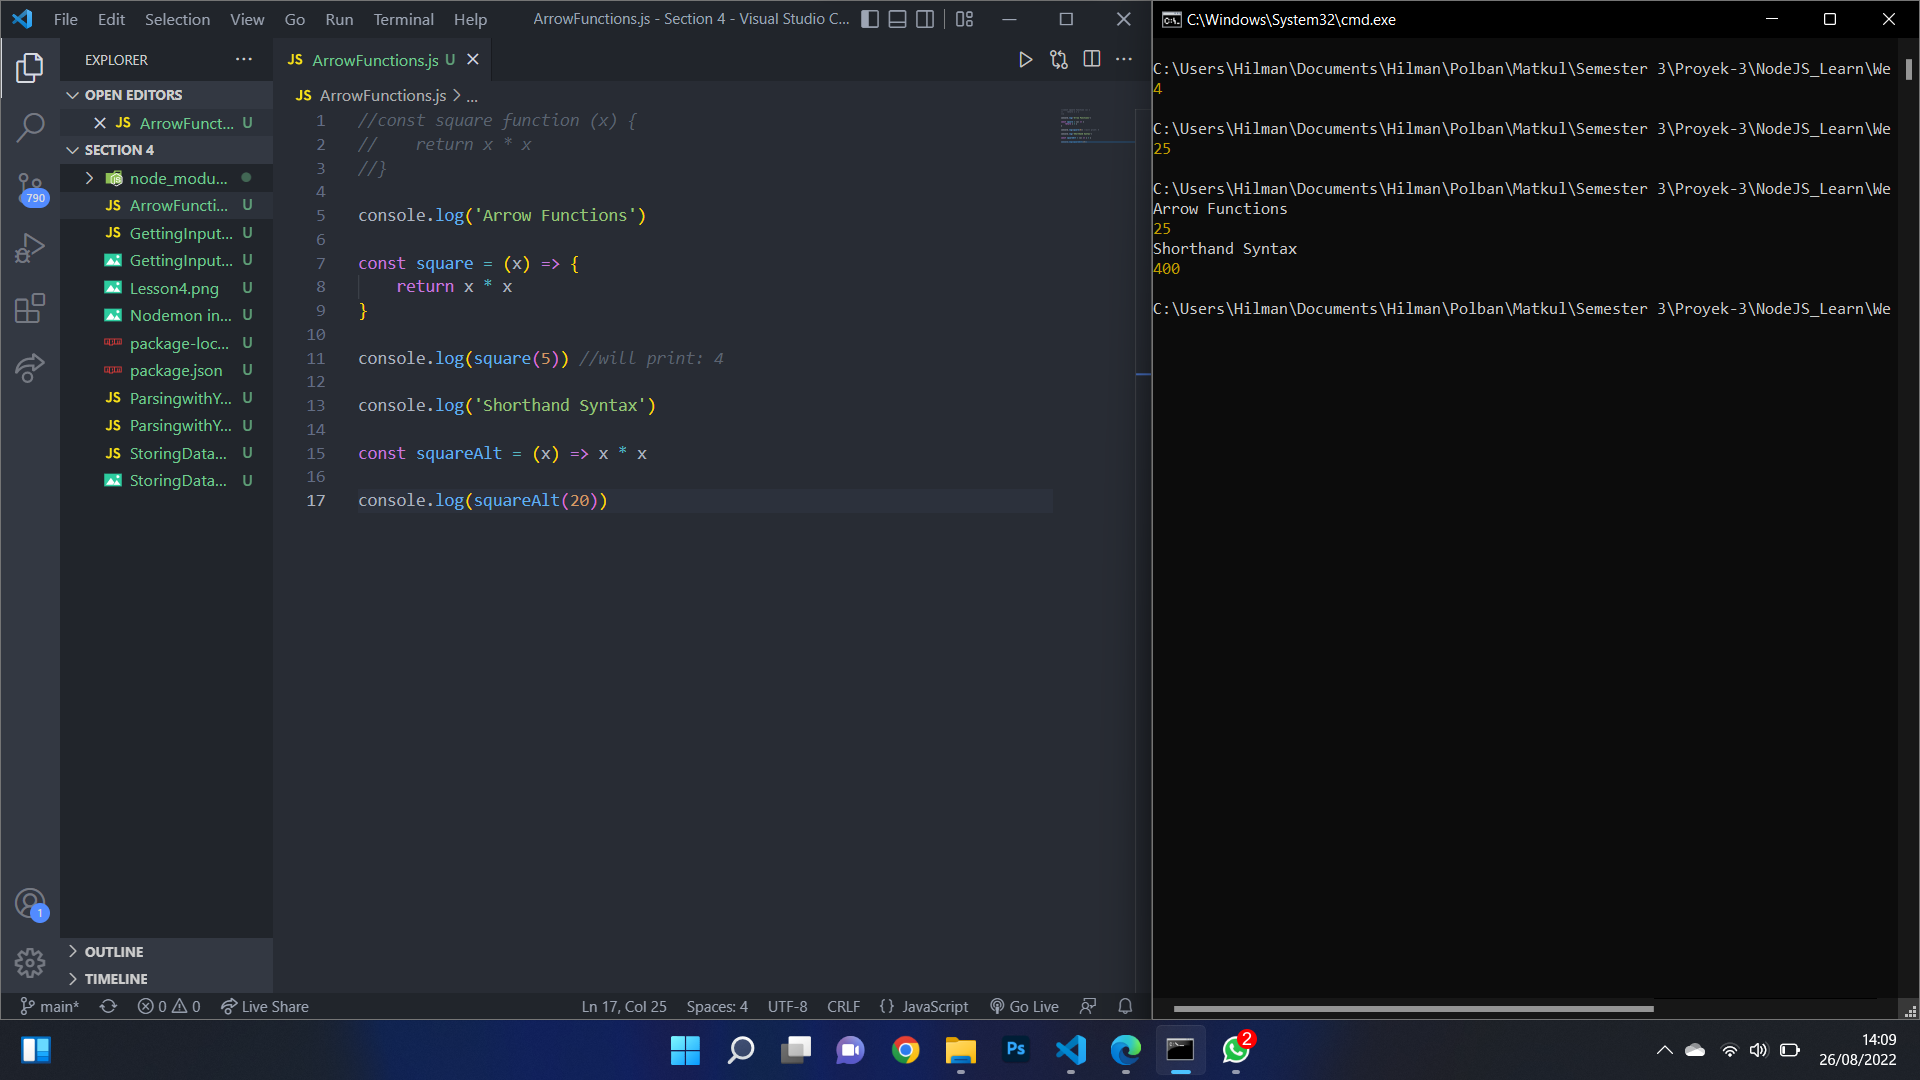
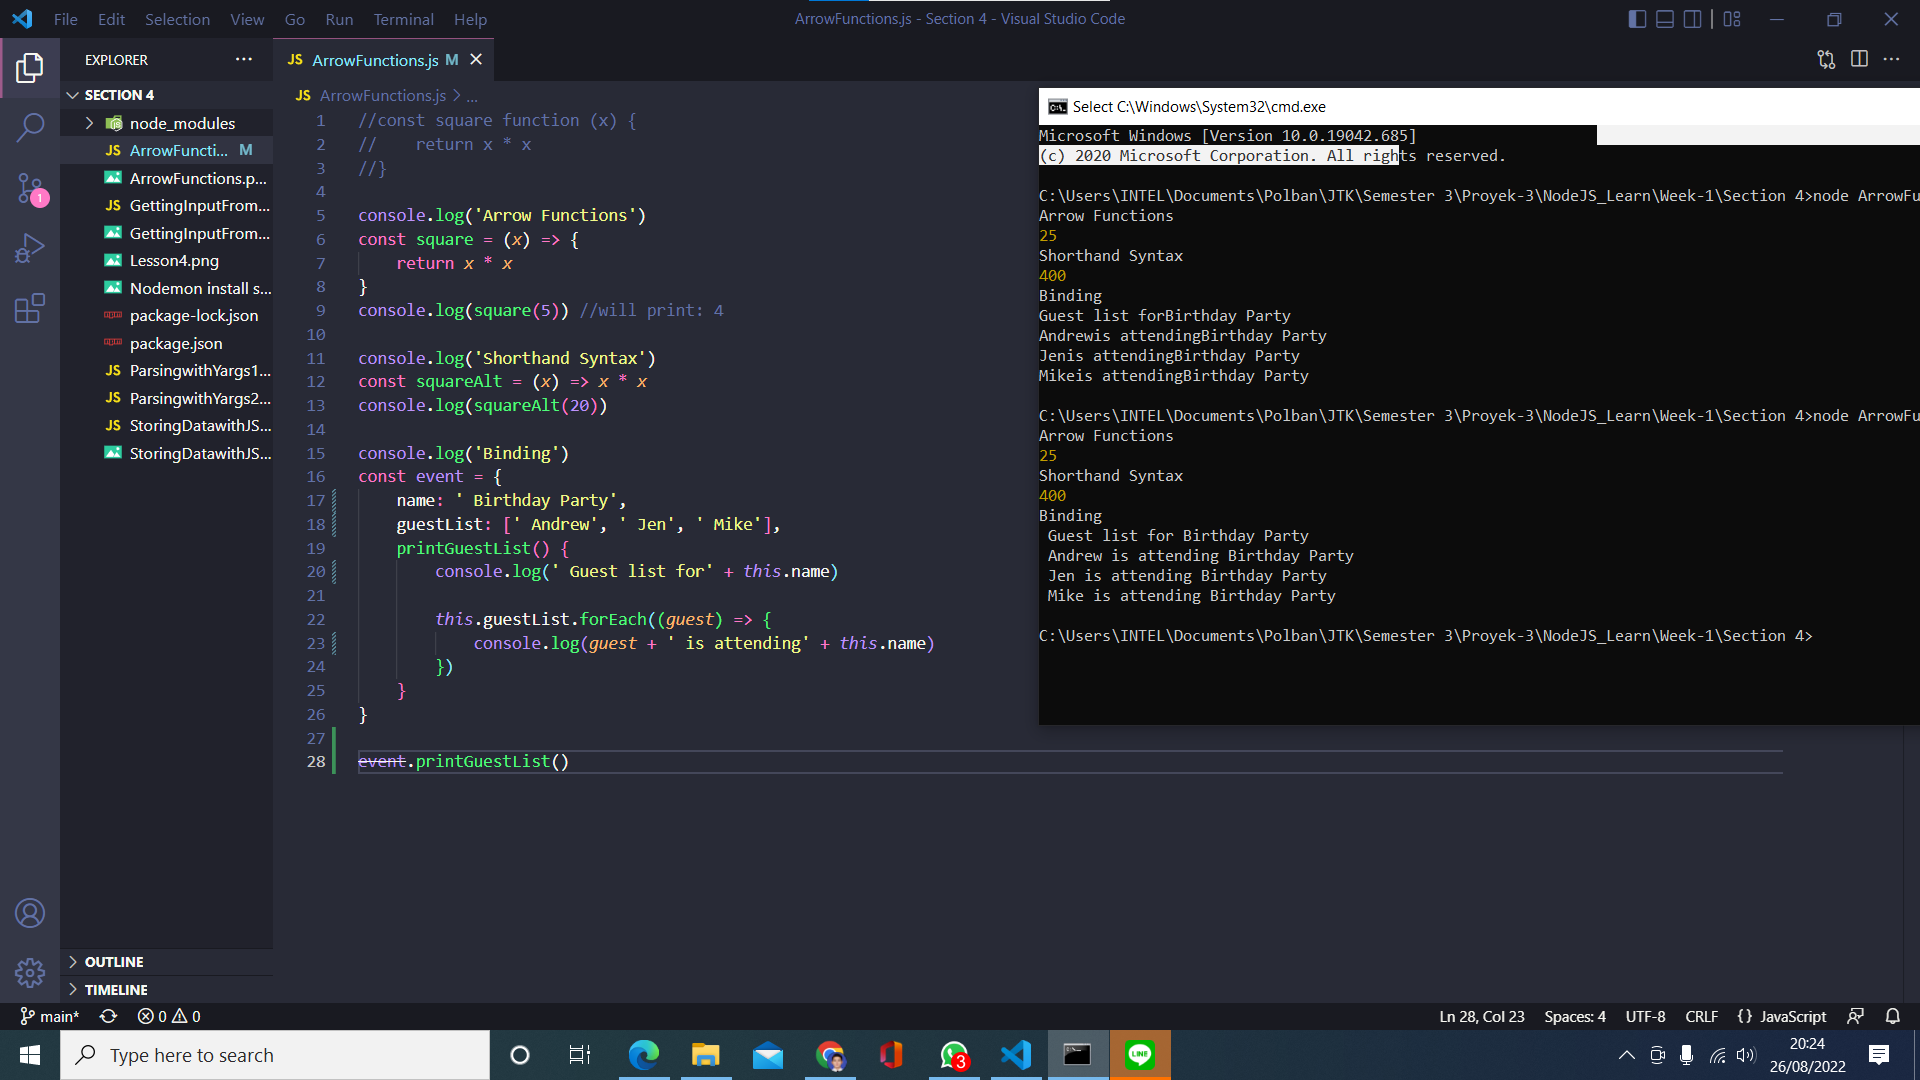
Next to Section 5

diff --git a/NodeJS_Learn/Week-1/Section 4/ArrowFunctions.js b/NodeJS_Learn/Week-1/Section 4/ArrowFunctions.js
@@ -14,13 +14,15 @@ console.log(squareAlt(20))
 
 console.log('Binding')
 const event = {
-    name: 'Birthday Party',
-    guestList: ['Andrew', 'Jen', 'Mike'],
+    name: ' Birthday Party',
+    guestList: [' Andrew', ' Jen', ' Mike'],
     printGuestList() {
-        console.log('Guest list for' + this.name)
+        console.log(' Guest list for' + this.name)
 
         this.guestList.forEach((guest) => {
-            console.log(guest + 'is attending' + this.name)
+            console.log(guest + ' is attending' + this.name)
         })
     }
 }
+
+event.printGuestList()

diff --git a/NodeJS_Learn/Week-1/Section 4/ReadingaNote.js b/NodeJS_Learn/Week-1/Section 4/ReadingaNote.js
@@ -1,0 +1,15 @@
+console.log('Starting app...')
+
+const users = [{
+    name: 'Andrew Mead',
+    age: 27
+},{
+    name: 'George Hudson',
+    age: 72
+},{
+    name: 'Clay Klay',
+    age: 45
+}]
+
+const user = users.find((user) => user.name === 'George Hudson')
+console.log(user)
